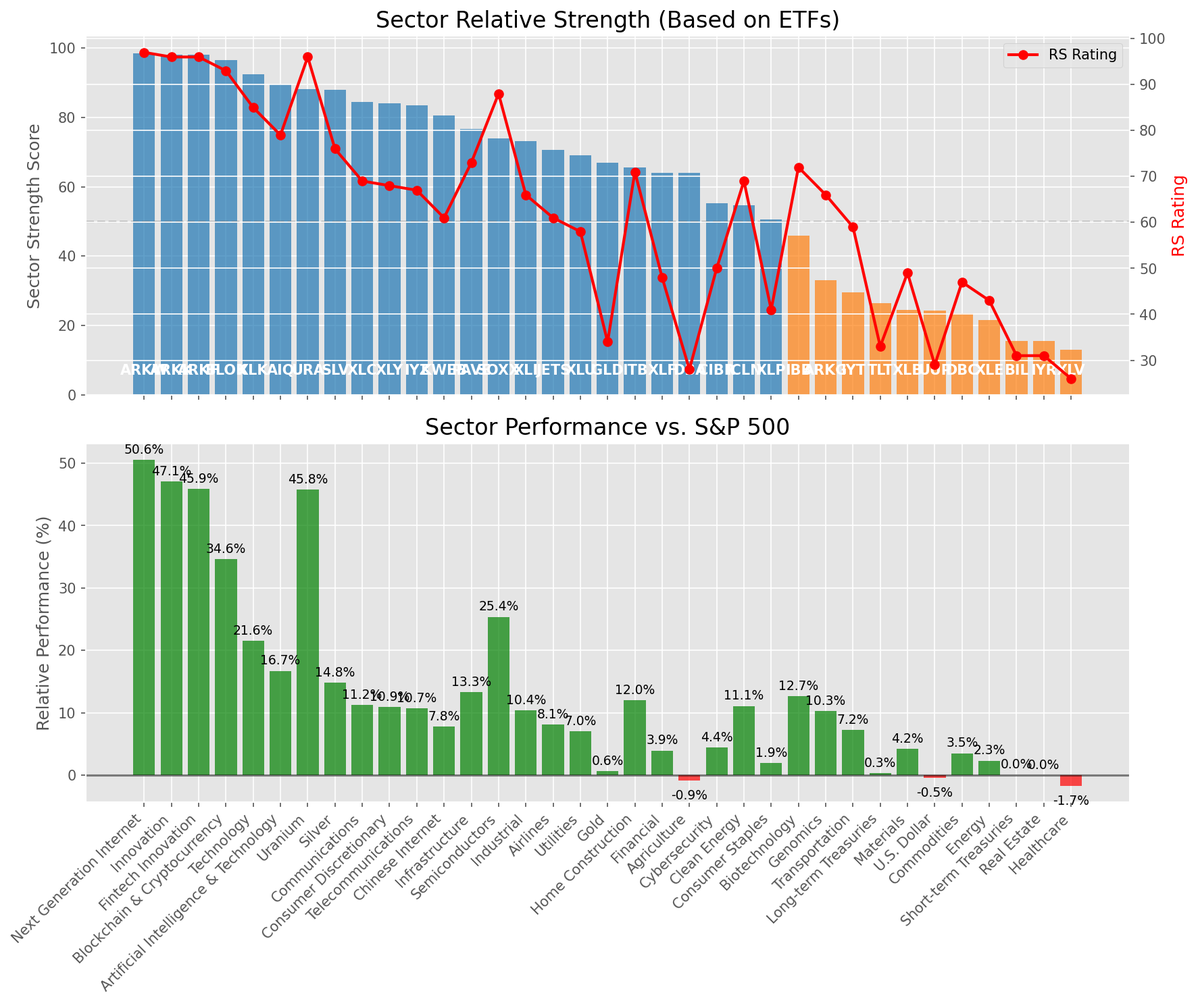
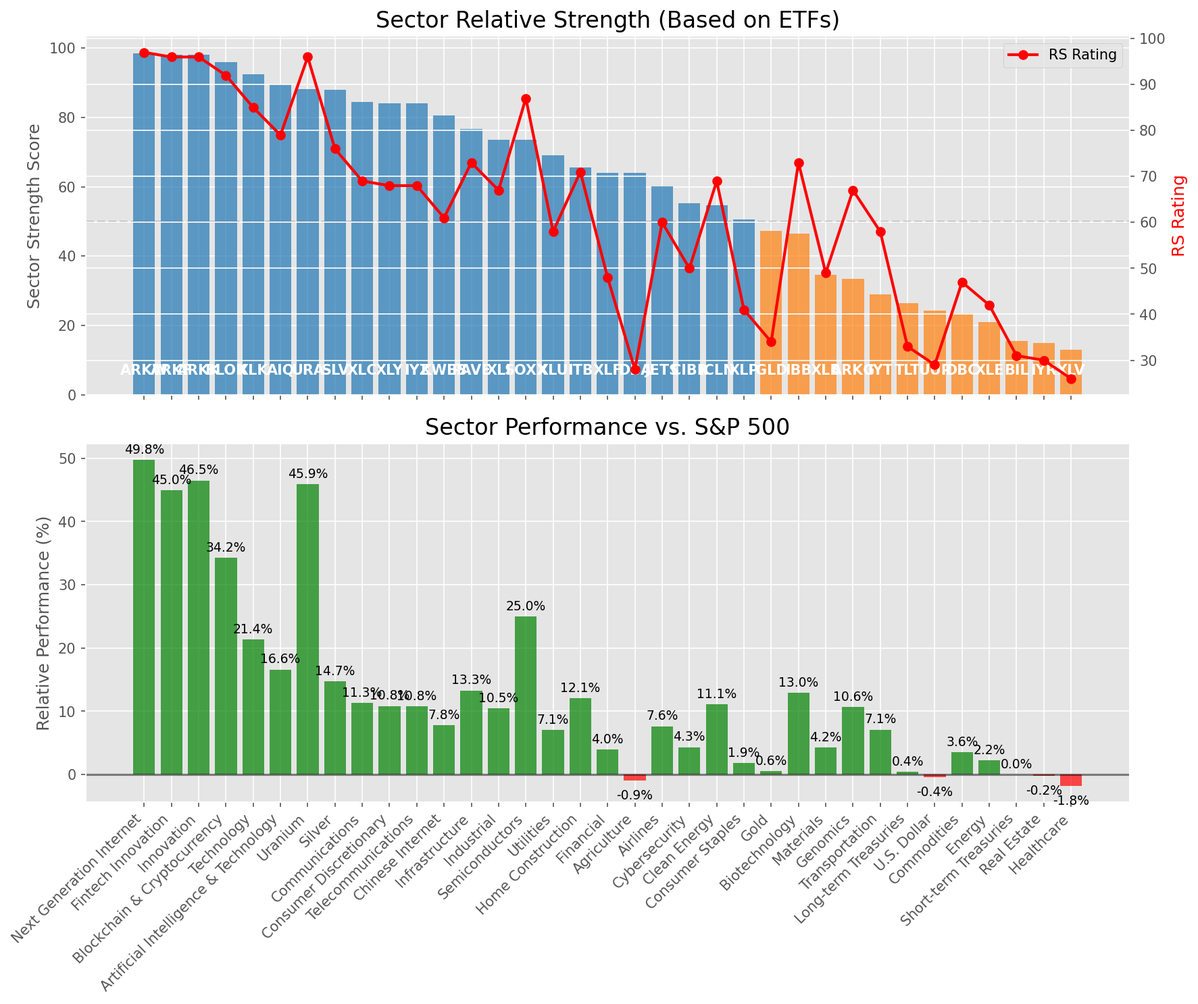
Add market report for 2025-08-11

diff --git a/oneil_relative_strength_report_2025-08-11.md b/oneil_relative_strength_report_2025-08-11.md
@@ -13,7 +13,7 @@
 | **Historical Mean** | 9.68 |
 | **Standard Deviation** | 0.52 |
 | **Z-Score (StdDev from Mean)** | 1.24 |
-| **Total Market Cap** | $312.54 trillion |
+| **Total Market Cap** | $312.31 trillion |
 | **GDP** | $30.33 trillion |
 
 ## **Market Insights**
@@ -49,41 +49,41 @@ Based on William O'Neil's Relative Strength Methodology
 
 | ETF | Strength | RS Rating | Performance | Above Key MAs | Trend | Sector |
 |-----|----------|-----------|-------------|--------------|-------|--------|
-| [ARKW](https://www.tradingview.com/chart/?symbol=ARKW) | 98.5 | 97.0 | 50.57% | 10d ✓, 50d ✓, 200d ✓ | ↗ | Next Generation Internet |
-| [ARKK](https://www.tradingview.com/chart/?symbol=ARKK) | 98.0 | 96.0 | 47.09% | 10d ✓, 50d ✓, 200d ✓ | ↗ | Innovation |
-| [ARKF](https://www.tradingview.com/chart/?symbol=ARKF) | 98.0 | 96.0 | 45.90% | 10d ✓, 50d ✓, 200d ✓ | ↗ | Fintech Innovation |
-| [BLOK](https://www.tradingview.com/chart/?symbol=BLOK) | 96.5 | 93.0 | 34.62% | 10d ✓, 50d ✓, 200d ✓ | ↗ | Blockchain & Cryptocurrency |
-| [XLK](https://www.tradingview.com/chart/?symbol=XLK) | 92.5 | 85.0 | 21.55% | 10d ✓, 50d ✓, 200d ✓ | ↗ | Technology |
-| [AIQ](https://www.tradingview.com/chart/?symbol=AIQ) | 89.5 | 79.0 | 16.70% | 10d ✓, 50d ✓, 200d ✓ | ↗ | Artificial Intelligence & Technology |
-| [URA](https://www.tradingview.com/chart/?symbol=URA) | 88.1 | 96.0 | 45.77% | 10d ✗, 50d ✓, 200d ✓ | ↗ | Uranium |
-| [SLV](https://www.tradingview.com/chart/?symbol=SLV) | 88.0 | 76.0 | 14.84% | 10d ✓, 50d ✓, 200d ✓ | ↗ | Silver |
-| [XLC](https://www.tradingview.com/chart/?symbol=XLC) | 84.5 | 69.0 | 11.24% | 10d ✓, 50d ✓, 200d ✓ | ↗ | Communications |
-| [XLY](https://www.tradingview.com/chart/?symbol=XLY) | 84.0 | 68.0 | 10.95% | 10d ✓, 50d ✓, 200d ✓ | ↗ | Consumer Discretionary |
-| [IYZ](https://www.tradingview.com/chart/?symbol=IYZ) | 83.5 | 67.0 | 10.71% | 10d ✓, 50d ✓, 200d ✓ | ↗ | Telecommunications |
-| [KWEB](https://www.tradingview.com/chart/?symbol=KWEB) | 80.5 | 61.0 | 7.80% | 10d ✓, 50d ✓, 200d ✓ | ↗ | Chinese Internet |
-| [PAVE](https://www.tradingview.com/chart/?symbol=PAVE) | 76.6 | 73.0 | 13.31% | 10d ✗, 50d ✓, 200d ✓ | ↗ | Infrastructure |
-| [SOXX](https://www.tradingview.com/chart/?symbol=SOXX) | 74.0 | 88.0 | 25.36% | 10d ✓, 50d ✓, 200d ✓ | ↘ | Semiconductors |
-| [XLI](https://www.tradingview.com/chart/?symbol=XLI) | 73.1 | 66.0 | 10.36% | 10d ✗, 50d ✓, 200d ✓ | ↗ | Industrial |
-| [JETS](https://www.tradingview.com/chart/?symbol=JETS) | 70.6 | 61.0 | 8.08% | 10d ✗, 50d ✓, 200d ✓ | ↗ | Airlines |
-| [XLU](https://www.tradingview.com/chart/?symbol=XLU) | 69.1 | 58.0 | 6.97% | 10d ✗, 50d ✓, 200d ✓ | ↗ | Utilities |
-| [GLD](https://www.tradingview.com/chart/?symbol=GLD) | 67.0 | 34.0 | 0.64% | 10d ✓, 50d ✓, 200d ✓ | ↗ | Gold |
-| [ITB](https://www.tradingview.com/chart/?symbol=ITB) | 65.5 | 71.0 | 12.04% | 10d ✓, 50d ✓, 200d ✓ | ↘ | Home Construction |
-| [XLF](https://www.tradingview.com/chart/?symbol=XLF) | 64.1 | 48.0 | 3.93% | 10d ✗, 50d ✓, 200d ✓ | ↗ | Financial |
+| [ARKW](https://www.tradingview.com/chart/?symbol=ARKW) | 98.5 | 97.0 | 49.78% | 10d ✓, 50d ✓, 200d ✓ | ↗ | Next Generation Internet |
+| [ARKF](https://www.tradingview.com/chart/?symbol=ARKF) | 98.0 | 96.0 | 44.96% | 10d ✓, 50d ✓, 200d ✓ | ↗ | Fintech Innovation |
+| [ARKK](https://www.tradingview.com/chart/?symbol=ARKK) | 98.0 | 96.0 | 46.50% | 10d ✓, 50d ✓, 200d ✓ | ↗ | Innovation |
+| [BLOK](https://www.tradingview.com/chart/?symbol=BLOK) | 96.0 | 92.0 | 34.25% | 10d ✓, 50d ✓, 200d ✓ | ↗ | Blockchain & Cryptocurrency |
+| [XLK](https://www.tradingview.com/chart/?symbol=XLK) | 92.5 | 85.0 | 21.38% | 10d ✓, 50d ✓, 200d ✓ | ↗ | Technology |
+| [AIQ](https://www.tradingview.com/chart/?symbol=AIQ) | 89.5 | 79.0 | 16.60% | 10d ✓, 50d ✓, 200d ✓ | ↗ | Artificial Intelligence & Technology |
+| [URA](https://www.tradingview.com/chart/?symbol=URA) | 88.1 | 96.0 | 45.91% | 10d ✗, 50d ✓, 200d ✓ | ↗ | Uranium |
+| [SLV](https://www.tradingview.com/chart/?symbol=SLV) | 88.0 | 76.0 | 14.70% | 10d ✓, 50d ✓, 200d ✓ | ↗ | Silver |
+| [XLC](https://www.tradingview.com/chart/?symbol=XLC) | 84.5 | 69.0 | 11.32% | 10d ✓, 50d ✓, 200d ✓ | ↗ | Communications |
+| [XLY](https://www.tradingview.com/chart/?symbol=XLY) | 84.0 | 68.0 | 10.84% | 10d ✓, 50d ✓, 200d ✓ | ↗ | Consumer Discretionary |
+| [IYZ](https://www.tradingview.com/chart/?symbol=IYZ) | 84.0 | 68.0 | 10.75% | 10d ✓, 50d ✓, 200d ✓ | ↗ | Telecommunications |
+| [KWEB](https://www.tradingview.com/chart/?symbol=KWEB) | 80.5 | 61.0 | 7.77% | 10d ✓, 50d ✓, 200d ✓ | ↗ | Chinese Internet |
+| [PAVE](https://www.tradingview.com/chart/?symbol=PAVE) | 76.6 | 73.0 | 13.30% | 10d ✗, 50d ✓, 200d ✓ | ↗ | Infrastructure |
+| [XLI](https://www.tradingview.com/chart/?symbol=XLI) | 73.6 | 67.0 | 10.45% | 10d ✗, 50d ✓, 200d ✓ | ↗ | Industrial |
+| [SOXX](https://www.tradingview.com/chart/?symbol=SOXX) | 73.5 | 87.0 | 24.99% | 10d ✓, 50d ✓, 200d ✓ | ↘ | Semiconductors |
+| [XLU](https://www.tradingview.com/chart/?symbol=XLU) | 69.1 | 58.0 | 7.07% | 10d ✗, 50d ✓, 200d ✓ | ↗ | Utilities |
+| [ITB](https://www.tradingview.com/chart/?symbol=ITB) | 65.5 | 71.0 | 12.09% | 10d ✓, 50d ✓, 200d ✓ | ↘ | Home Construction |
+| [XLF](https://www.tradingview.com/chart/?symbol=XLF) | 64.1 | 48.0 | 3.95% | 10d ✗, 50d ✓, 200d ✓ | ↗ | Financial |
 | [DBA](https://www.tradingview.com/chart/?symbol=DBA) | 64.0 | 28.0 | -0.89% | 10d ✓, 50d ✓, 200d ✓ | ↗ | Agriculture |
-| [CIBR](https://www.tradingview.com/chart/?symbol=CIBR) | 55.2 | 50.0 | 4.43% | 10d ✗, 50d ✗, 200d ✓ | ↗ | Cybersecurity |
+| [JETS](https://www.tradingview.com/chart/?symbol=JETS) | 60.2 | 60.0 | 7.65% | 10d ✗, 50d ✗, 200d ✓ | ↗ | Airlines |
+| [CIBR](https://www.tradingview.com/chart/?symbol=CIBR) | 55.2 | 50.0 | 4.33% | 10d ✗, 50d ✗, 200d ✓ | ↗ | Cybersecurity |
 | [ICLN](https://www.tradingview.com/chart/?symbol=ICLN) | 54.6 | 69.0 | 11.08% | 10d ✗, 50d ✓, 200d ✓ | ↘ | Clean Energy |
-| [XLP](https://www.tradingview.com/chart/?symbol=XLP) | 50.5 | 41.0 | 1.91% | 10d ✓, 50d ✓, 200d ✓ | ↘ | Consumer Staples |
-| [IBB](https://www.tradingview.com/chart/?symbol=IBB) | 45.9 | 72.0 | 12.68% | 10d ✗, 50d ✓, 200d ✗ | ↘ | Biotechnology |
-| [ARKG](https://www.tradingview.com/chart/?symbol=ARKG) | 33.0 | 66.0 | 10.27% | 10d ✗, 50d ✗, 200d ✗ | ↘ | Genomics |
-| [IYT](https://www.tradingview.com/chart/?symbol=IYT) | 29.5 | 59.0 | 7.23% | 10d ✗, 50d ✗, 200d ✗ | ↘ | Transportation |
-| [TLT](https://www.tradingview.com/chart/?symbol=TLT) | 26.4 | 33.0 | 0.32% | 10d ✗, 50d ✓, 200d ✗ | ↘ | Long-term Treasuries |
-| [XLB](https://www.tradingview.com/chart/?symbol=XLB) | 24.5 | 49.0 | 4.21% | 10d ✗, 50d ✗, 200d ✗ | ↘ | Materials |
-| [UUP](https://www.tradingview.com/chart/?symbol=UUP) | 24.4 | 29.0 | -0.49% | 10d ✗, 50d ✓, 200d ✗ | ↘ | U.S. Dollar |
-| [DBC](https://www.tradingview.com/chart/?symbol=DBC) | 23.5 | 47.0 | 3.50% | 10d ✗, 50d ✗, 200d ✗ | ↘ | Commodities |
-| [XLE](https://www.tradingview.com/chart/?symbol=XLE) | 21.5 | 43.0 | 2.30% | 10d ✗, 50d ✗, 200d ✗ | ↘ | Energy |
-| [BIL](https://www.tradingview.com/chart/?symbol=BIL) | 15.5 | 31.0 | 0.03% | 10d ✗, 50d ✗, 200d ✗ | ↘ | Short-term Treasuries |
-| [IYR](https://www.tradingview.com/chart/?symbol=IYR) | 15.5 | 31.0 | 0.01% | 10d ✗, 50d ✗, 200d ✗ | ↘ | Real Estate |
-| [XLV](https://www.tradingview.com/chart/?symbol=XLV) | 13.0 | 26.0 | -1.75% | 10d ✗, 50d ✗, 200d ✗ | ↘ | Healthcare |
+| [XLP](https://www.tradingview.com/chart/?symbol=XLP) | 50.5 | 41.0 | 1.85% | 10d ✓, 50d ✓, 200d ✓ | ↘ | Consumer Staples |
+| [GLD](https://www.tradingview.com/chart/?symbol=GLD) | 47.2 | 34.0 | 0.56% | 10d ✗, 50d ✗, 200d ✓ | ↗ | Gold |
+| [IBB](https://www.tradingview.com/chart/?symbol=IBB) | 46.4 | 73.0 | 12.96% | 10d ✗, 50d ✓, 200d ✗ | ↘ | Biotechnology |
+| [XLB](https://www.tradingview.com/chart/?symbol=XLB) | 34.7 | 49.0 | 4.25% | 10d ✗, 50d ✗, 200d ✓ | ↘ | Materials |
+| [ARKG](https://www.tradingview.com/chart/?symbol=ARKG) | 33.5 | 67.0 | 10.65% | 10d ✗, 50d ✗, 200d ✗ | ↘ | Genomics |
+| [IYT](https://www.tradingview.com/chart/?symbol=IYT) | 29.0 | 58.0 | 7.09% | 10d ✗, 50d ✗, 200d ✗ | ↘ | Transportation |
+| [TLT](https://www.tradingview.com/chart/?symbol=TLT) | 26.4 | 33.0 | 0.39% | 10d ✗, 50d ✓, 200d ✗ | ↘ | Long-term Treasuries |
+| [UUP](https://www.tradingview.com/chart/?symbol=UUP) | 24.4 | 29.0 | -0.43% | 10d ✗, 50d ✓, 200d ✗ | ↘ | U.S. Dollar |
+| [DBC](https://www.tradingview.com/chart/?symbol=DBC) | 23.5 | 47.0 | 3.55% | 10d ✗, 50d ✗, 200d ✗ | ↘ | Commodities |
+| [XLE](https://www.tradingview.com/chart/?symbol=XLE) | 21.0 | 42.0 | 2.21% | 10d ✗, 50d ✗, 200d ✗ | ↘ | Energy |
+| [BIL](https://www.tradingview.com/chart/?symbol=BIL) | 15.5 | 31.0 | 0.02% | 10d ✗, 50d ✗, 200d ✗ | ↘ | Short-term Treasuries |
+| [IYR](https://www.tradingview.com/chart/?symbol=IYR) | 15.0 | 30.0 | -0.22% | 10d ✗, 50d ✗, 200d ✗ | ↘ | Real Estate |
+| [XLV](https://www.tradingview.com/chart/?symbol=XLV) | 13.0 | 26.0 | -1.80% | 10d ✗, 50d ✗, 200d ✗ | ↘ | Healthcare |
 
 ### **Sector ETF Performance Interpretation**
 
@@ -98,159 +98,148 @@ This table shows the relative strength metrics for different market sectors base
 
 ### **Current Sector Leadership**
 
-The current market leadership is coming from the following sectors: **Next Generation Internet, Innovation, Fintech Innovation**.
+The current market leadership is coming from the following sectors: **Next Generation Internet, Fintech Innovation, Innovation**.
 
-The **Next Generation Internet** sector (represented by **ARKW**) is showing particularly strong relative strength with an RS rating of 97.0 and performance of 50.57% vs. the S&P 500. This sector is trading above its 10-day, 50-day, 200-day moving average(s). Investors should consider focusing on high RS stocks within these leading sectors for potential outperformance.
+The **Next Generation Internet** sector (represented by **ARKW**) is showing particularly strong relative strength with an RS rating of 97.0 and performance of 49.78% vs. the S&P 500. This sector is trading above its 10-day, 50-day, 200-day moving average(s). Investors should consider focusing on high RS stocks within these leading sectors for potential outperformance.
 
 ---
 
 ## **Buy Recommendations**
 
-The following 58 stocks show exceptional relative strength:
+The following 59 stocks show exceptional relative strength:
 
 | RS Rating | Buy Score | Current Price | Chart | Name | Ticker |
 |-----------|-----------|---------------|-------|------|--------|
-| 100 | 100 | $74.27 | [Chart](https://www.tradingview.com/chart/?symbol=MP) | MP Materials Corp. | MP |
-| 100 | 100 | $204.12 | [Chart](https://www.tradingview.com/chart/?symbol=CLS) | Celestica, Inc. | CLS |
-| 100 | 100 | $118.61 | [Chart](https://www.tradingview.com/chart/?symbol=CRDO) | Credo Technology Group Holding Ltd Ordinary Shares | CRDO |
-| 100 | 100 | $115.11 | [Chart](https://www.tradingview.com/chart/?symbol=HOOD) | Robinhood Markets, Inc. Class A Common Stock | HOOD |
-| 100 | 100 | $64.76 | [Chart](https://www.tradingview.com/chart/?symbol=KTOS) | Kratos Defense & Security Solutions, Inc. | KTOS |
-| 99 | 100 | $130.96 | [Chart](https://www.tradingview.com/chart/?symbol=RBLX) | Roblox Corporation | RBLX |
-| 98 | 100 | $92.88 | [Chart](https://www.tradingview.com/chart/?symbol=RYTM) | Rhythm Pharmaceuticals, Inc. Common Stock | RYTM |
-| 98 | 100 | $105.30 | [Chart](https://www.tradingview.com/chart/?symbol=VRNA) | Verona Pharma plc | VRNA |
-| 97 | 100 | $160.61 | [Chart](https://www.tradingview.com/chart/?symbol=ARKW) | ARK Next Generation Internet ETF | ARKW |
-| 97 | 100 | $183.06 | [Chart](https://www.tradingview.com/chart/?symbol=PLTR) | Palantir Technologies Inc. Class A Common Stock | PLTR |
-| 97 | 100 | $159.94 | [Chart](https://www.tradingview.com/chart/?symbol=FUTU) | Futu Holdings Limited American Depositary Shares | FUTU |
-| 97 | 100 | $179.14 | [Chart](https://www.tradingview.com/chart/?symbol=COOP) | Mr. Cooper Group Inc. Common Stock | COOP |
-| 97 | 100 | $119.93 | [Chart](https://www.tradingview.com/chart/?symbol=SANM) | Sanmina  Corp | SANM |
-| 96 | 100 | $54.61 | [Chart](https://www.tradingview.com/chart/?symbol=ARKF) | ARK Fintech Innovation ETF | ARKF |
-| 95 | 100 | $58.30 | [Chart](https://www.tradingview.com/chart/?symbol=BTI) | British American Tobacco p.l.c. American Depositary Shares, American Depositary Shares, each representing one Ordinary Share | BTI |
-| 95 | 100 | $464.55 | [Chart](https://www.tradingview.com/chart/?symbol=APP) | Applovin Corporation Class A Common Stock | APP |
-| 95 | 100 | $66.08 | [Chart](https://www.tradingview.com/chart/?symbol=IBKR) | Interactive Brokers Group, Inc. Class A Common Stock | IBKR |
-| 94 | 100 | $256.00 | [Chart](https://www.tradingview.com/chart/?symbol=DASH) | DoorDash, Inc. Class A Common Stock | DASH |
-| 94 | 100 | $50.11 | [Chart](https://www.tradingview.com/chart/?symbol=REVG) | REV Group, Inc. | REVG |
-| 94 | 100 | $47.27 | [Chart](https://www.tradingview.com/chart/?symbol=BBIO) | BridgeBio Pharma, Inc. Common Stock | BBIO |
-| 93 | 100 | $110.09 | [Chart](https://www.tradingview.com/chart/?symbol=APH) | Amphenol Corporation | APH |
-| 93 | 100 | $23.03 | [Chart](https://www.tradingview.com/chart/?symbol=MAG) | MAG Silver Corp. | MAG |
-| 93 | 100 | $94.89 | [Chart](https://www.tradingview.com/chart/?symbol=EBAY) | eBay Inc | EBAY |
-| 93 | 100 | $20.64 | [Chart](https://www.tradingview.com/chart/?symbol=LQDA) | Liquidia Corporation Common Stock | LQDA |
-| 91 | 100 | $96.84 | [Chart](https://www.tradingview.com/chart/?symbol=TPB) | Turning Point Brands, Inc. | TPB |
-| 91 | 100 | $36.18 | [Chart](https://www.tradingview.com/chart/?symbol=DB) | Deutsche Bank Aktiengesellschaft | DB |
-| 91 | 100 | $56.78 | [Chart](https://www.tradingview.com/chart/?symbol=CALX) | CALIX, INC. | CALX |
-| 90 | 100 | $91.29 | [Chart](https://www.tradingview.com/chart/?symbol=GDXU) | MicroSectors Gold Miners 3x Leveraged ETN | GDXU |
-| 90 | 100 | $54.22 | [Chart](https://www.tradingview.com/chart/?symbol=GH) | Guardant Health, Inc. Common Stock | GH |
-| 90 | 100 | $195.01 | [Chart](https://www.tradingview.com/chart/?symbol=ASND) | Ascendis Pharma A/S American Depositary Shares | ASND |
-| 89 | 100 | $274.58 | [Chart](https://www.tradingview.com/chart/?symbol=GE) | GE Aerospace | GE |
-| 89 | 100 | $28.13 | [Chart](https://www.tradingview.com/chart/?symbol=KAR) | OPENLANE, Inc | KAR |
-| 88 | 100 | $30.63 | [Chart](https://www.tradingview.com/chart/?symbol=OR) | OR Royalties Inc. | OR |
-| 88 | 100 | $267.46 | [Chart](https://www.tradingview.com/chart/?symbol=IDCC) | InterDigital, Inc. | IDCC |
-| 89 | 99 | $54.03 | [Chart](https://www.tradingview.com/chart/?symbol=SIL) | Global X Silver Miners ETF (NEW) | SIL |
-| 88 | 99 | $56.64 | [Chart](https://www.tradingview.com/chart/?symbol=AU) | AngloGold Ashanti plc | AU |
-| 86 | 99 | $119.70 | [Chart](https://www.tradingview.com/chart/?symbol=GILD) | Gilead Sciences Inc | GILD |
-| 84 | 98 | $20.02 | [Chart](https://www.tradingview.com/chart/?symbol=BCS) | Barclays PLC | BCS |
-| 87 | 97 | $188.80 | [Chart](https://www.tradingview.com/chart/?symbol=AWI) | Armstrong World Industries, Inc. | AWI |
-| 87 | 97 | $262.24 | [Chart](https://www.tradingview.com/chart/?symbol=WTS) | Watts Water Technologies, Inc. Class A | WTS |
-| 87 | 97 | $65.73 | [Chart](https://www.tradingview.com/chart/?symbol=MAIN) | Main Street Capital Corporation | MAIN |
-| 86 | 97 | $35.09 | [Chart](https://www.tradingview.com/chart/?symbol=ATAT) | Atour Lifestyle Holdings Limited American Depositary Shares | ATAT |
-| 86 | 96 | $97.15 | [Chart](https://www.tradingview.com/chart/?symbol=NDAQ) | Nasdaq, Inc. Common Stock | NDAQ |
-| 85 | 96 | $249.49 | [Chart](https://www.tradingview.com/chart/?symbol=BAP) | Credicorp LTD | BAP |
-| 85 | 96 | $26.81 | [Chart](https://www.tradingview.com/chart/?symbol=TFPM) | Triple Flag Precious Metals Corp. | TFPM |
-| 83 | 96 | $57.92 | [Chart](https://www.tradingview.com/chart/?symbol=ERJ) | Embraer S.A. | ERJ |
-| 85 | 95 | $47.72 | [Chart](https://www.tradingview.com/chart/?symbol=FAST) | Fastenal Co | FAST |
-| 85 | 95 | $18.26 | [Chart](https://www.tradingview.com/chart/?symbol=BVN) | Compania de Minas Buenaventura S.A. | BVN |
-| 85 | 95 | $31.41 | [Chart](https://www.tradingview.com/chart/?symbol=IIIV) | i3 Verticals, Inc. Class A Common Stock | IIIV |
-| 84 | 95 | $115.80 | [Chart](https://www.tradingview.com/chart/?symbol=SXT) | Sensient Technology Corporation | SXT |
-| 83 | 95 | $103.17 | [Chart](https://www.tradingview.com/chart/?symbol=BK) | Bank of New York Mellon Corporation | BK |
-| 83 | 95 | $821.37 | [Chart](https://www.tradingview.com/chart/?symbol=AXON) | Axon Enterprise, Inc. Common Stock | AXON |
-| 84 | 94 | $51.51 | [Chart](https://www.tradingview.com/chart/?symbol=FHI) | Federated Hermes, Inc. | FHI |
-| 82 | 93 | $117.23 | [Chart](https://www.tradingview.com/chart/?symbol=SPMO) | Invesco S&P 500 Momentum ETF | SPMO |
-| 82 | 93 | $35.00 | [Chart](https://www.tradingview.com/chart/?symbol=APG) | APi Group Corporation | APG |
-| 81 | 93 | $70.61 | [Chart](https://www.tradingview.com/chart/?symbol=CSCO) | Cisco Systems, Inc. Common Stock (DE) | CSCO |
-| 81 | 93 | $319.05 | [Chart](https://www.tradingview.com/chart/?symbol=FFIV) | F5, Inc. Common Stock | FFIV |
-| 80 | 91 | $24.10 | [Chart](https://www.tradingview.com/chart/?symbol=ING) | ING Groep N.V. American Depositary Shares | ING |
+| 100 | 100 | $72.69 | [Chart](https://www.tradingview.com/chart/?symbol=MP) | MP Materials Corp. | MP |
+| 100 | 100 | $113.62 | [Chart](https://www.tradingview.com/chart/?symbol=HOOD) | Robinhood Markets, Inc. Class A Common Stock | HOOD |
+| 100 | 100 | $65.41 | [Chart](https://www.tradingview.com/chart/?symbol=KTOS) | Kratos Defense & Security Solutions, Inc. | KTOS |
+| 100 | 100 | $204.60 | [Chart](https://www.tradingview.com/chart/?symbol=CLS) | Celestica, Inc. | CLS |
+| 100 | 100 | $118.57 | [Chart](https://www.tradingview.com/chart/?symbol=CRDO) | Credo Technology Group Holding Ltd Ordinary Shares | CRDO |
+| 99 | 100 | $130.74 | [Chart](https://www.tradingview.com/chart/?symbol=RBLX) | Roblox Corporation | RBLX |
+| 98 | 100 | $94.31 | [Chart](https://www.tradingview.com/chart/?symbol=RYTM) | Rhythm Pharmaceuticals, Inc. Common Stock | RYTM |
+| 97 | 100 | $159.77 | [Chart](https://www.tradingview.com/chart/?symbol=ARKW) | ARK Next Generation Internet ETF | ARKW |
+| 97 | 100 | $119.16 | [Chart](https://www.tradingview.com/chart/?symbol=SANM) | Sanmina  Corp | SANM |
+| 97 | 100 | $180.27 | [Chart](https://www.tradingview.com/chart/?symbol=COOP) | Mr. Cooper Group Inc. Common Stock | COOP |
+| 97 | 100 | $182.68 | [Chart](https://www.tradingview.com/chart/?symbol=PLTR) | Palantir Technologies Inc. Class A Common Stock | PLTR |
+| 97 | 100 | $159.50 | [Chart](https://www.tradingview.com/chart/?symbol=FUTU) | Futu Holdings Limited American Depositary Shares | FUTU |
+| 96 | 100 | $54.26 | [Chart](https://www.tradingview.com/chart/?symbol=ARKF) | ARK Fintech Innovation ETF | ARKF |
+| 95 | 100 | $66.18 | [Chart](https://www.tradingview.com/chart/?symbol=IBKR) | Interactive Brokers Group, Inc. Class A Common Stock | IBKR |
+| 95 | 100 | $48.24 | [Chart](https://www.tradingview.com/chart/?symbol=BBIO) | BridgeBio Pharma, Inc. Common Stock | BBIO |
+| 95 | 100 | $24.82 | [Chart](https://www.tradingview.com/chart/?symbol=ACAD) | Acadia Pharmaceuticals Inc. | ACAD |
+| 95 | 100 | $465.58 | [Chart](https://www.tradingview.com/chart/?symbol=APP) | Applovin Corporation Class A Common Stock | APP |
+| 94 | 100 | $256.09 | [Chart](https://www.tradingview.com/chart/?symbol=DASH) | DoorDash, Inc. Class A Common Stock | DASH |
+| 94 | 100 | $58.33 | [Chart](https://www.tradingview.com/chart/?symbol=BTI) | British American Tobacco p.l.c. American Depositary Shares, American Depositary Shares, each representing one Ordinary Share | BTI |
+| 94 | 100 | $21.20 | [Chart](https://www.tradingview.com/chart/?symbol=LQDA) | Liquidia Corporation Common Stock | LQDA |
+| 93 | 100 | $95.30 | [Chart](https://www.tradingview.com/chart/?symbol=EBAY) | eBay Inc | EBAY |
+| 93 | 100 | $109.81 | [Chart](https://www.tradingview.com/chart/?symbol=APH) | Amphenol Corporation | APH |
+| 93 | 100 | $49.97 | [Chart](https://www.tradingview.com/chart/?symbol=REVG) | REV Group, Inc. | REVG |
+| 93 | 100 | $22.92 | [Chart](https://www.tradingview.com/chart/?symbol=MAG) | MAG Silver Corp. | MAG |
+| 92 | 100 | $36.21 | [Chart](https://www.tradingview.com/chart/?symbol=DB) | Deutsche Bank Aktiengesellschaft | DB |
+| 91 | 100 | $54.80 | [Chart](https://www.tradingview.com/chart/?symbol=GH) | Guardant Health, Inc. Common Stock | GH |
+| 91 | 100 | $56.68 | [Chart](https://www.tradingview.com/chart/?symbol=CALX) | CALIX, INC. | CALX |
+| 91 | 100 | $97.77 | [Chart](https://www.tradingview.com/chart/?symbol=TPB) | Turning Point Brands, Inc. | TPB |
+| 90 | 100 | $275.20 | [Chart](https://www.tradingview.com/chart/?symbol=GE) | GE Aerospace | GE |
+| 90 | 100 | $28.30 | [Chart](https://www.tradingview.com/chart/?symbol=KAR) | OPENLANE, Inc | KAR |
+| 90 | 100 | $195.97 | [Chart](https://www.tradingview.com/chart/?symbol=ASND) | Ascendis Pharma A/S American Depositary Shares | ASND |
+| 89 | 100 | $56.80 | [Chart](https://www.tradingview.com/chart/?symbol=AU) | AngloGold Ashanti plc | AU |
+| 88 | 100 | $30.64 | [Chart](https://www.tradingview.com/chart/?symbol=OR) | OR Royalties Inc. | OR |
+| 88 | 100 | $266.31 | [Chart](https://www.tradingview.com/chart/?symbol=IDCC) | InterDigital, Inc. | IDCC |
+| 87 | 100 | $120.47 | [Chart](https://www.tradingview.com/chart/?symbol=GILD) | Gilead Sciences Inc | GILD |
+| 89 | 99 | $90.97 | [Chart](https://www.tradingview.com/chart/?symbol=GDXU) | MicroSectors Gold Miners 3x Leveraged ETN | GDXU |
+| 88 | 98 | $53.83 | [Chart](https://www.tradingview.com/chart/?symbol=SIL) | Global X Silver Miners ETF (NEW) | SIL |
+| 88 | 98 | $266.98 | [Chart](https://www.tradingview.com/chart/?symbol=WTS) | Watts Water Technologies, Inc. Class A | WTS |
+| 84 | 98 | $20.05 | [Chart](https://www.tradingview.com/chart/?symbol=BCS) | Barclays PLC | BCS |
+| 87 | 97 | $189.59 | [Chart](https://www.tradingview.com/chart/?symbol=AWI) | Armstrong World Industries, Inc. | AWI |
+| 87 | 97 | $65.98 | [Chart](https://www.tradingview.com/chart/?symbol=MAIN) | Main Street Capital Corporation | MAIN |
+| 86 | 97 | $34.96 | [Chart](https://www.tradingview.com/chart/?symbol=ATAT) | Atour Lifestyle Holdings Limited American Depositary Shares | ATAT |
+| 86 | 96 | $31.46 | [Chart](https://www.tradingview.com/chart/?symbol=IIIV) | i3 Verticals, Inc. Class A Common Stock | IIIV |
+| 85 | 96 | $26.89 | [Chart](https://www.tradingview.com/chart/?symbol=TFPM) | Triple Flag Precious Metals Corp. | TFPM |
+| 85 | 96 | $249.20 | [Chart](https://www.tradingview.com/chart/?symbol=BAP) | Credicorp LTD | BAP |
+| 83 | 96 | $57.77 | [Chart](https://www.tradingview.com/chart/?symbol=ERJ) | Embraer S.A. | ERJ |
+| 85 | 95 | $96.94 | [Chart](https://www.tradingview.com/chart/?symbol=NDAQ) | Nasdaq, Inc. Common Stock | NDAQ |
+| 85 | 95 | $47.84 | [Chart](https://www.tradingview.com/chart/?symbol=FAST) | Fastenal Co | FAST |
+| 84 | 95 | $116.00 | [Chart](https://www.tradingview.com/chart/?symbol=SXT) | Sensient Technology Corporation | SXT |
+| 83 | 95 | $818.69 | [Chart](https://www.tradingview.com/chart/?symbol=AXON) | Axon Enterprise, Inc. Common Stock | AXON |
+| 83 | 95 | $103.27 | [Chart](https://www.tradingview.com/chart/?symbol=BK) | Bank of New York Mellon Corporation | BK |
+| 84 | 94 | $51.57 | [Chart](https://www.tradingview.com/chart/?symbol=FHI) | Federated Hermes, Inc. | FHI |
+| 84 | 94 | $18.16 | [Chart](https://www.tradingview.com/chart/?symbol=BVN) | Compania de Minas Buenaventura S.A. | BVN |
+| 82 | 93 | $34.96 | [Chart](https://www.tradingview.com/chart/?symbol=APG) | APi Group Corporation | APG |
+| 82 | 93 | $117.05 | [Chart](https://www.tradingview.com/chart/?symbol=SPMO) | Invesco S&P 500 Momentum ETF | SPMO |
+| 81 | 93 | $70.67 | [Chart](https://www.tradingview.com/chart/?symbol=CSCO) | Cisco Systems, Inc. Common Stock (DE) | CSCO |
+| 81 | 93 | $318.11 | [Chart](https://www.tradingview.com/chart/?symbol=FFIV) | F5, Inc. Common Stock | FFIV |
+| 80 | 91 | $24.13 | [Chart](https://www.tradingview.com/chart/?symbol=ING) | ING Groep N.V. American Depositary Shares | ING |
+| 80 | 91 | $26.00 | [Chart](https://www.tradingview.com/chart/?symbol=PUK) | PRUDENTIAL PLC ADS (REP 2 ORD SHARES) | PUK |
 
 ---
 
 
 ## **Sell Recommendations**
 
-The following 73 stocks show deteriorating relative strength:
+The following 61 stocks show deteriorating relative strength:
 
 | RS Rating | Sell Score | Current Price | Chart | Name | Ticker |
 |-----------|------------|---------------|-------|------|--------|
-| 1 | 100 | $11.55 | [Chart](https://www.tradingview.com/chart/?symbol=NVDS) | Investment Managers Series Trust II Tradr 1.5X Short NVDA Daily ETF | NVDS |
-| 1 | 100 | $23.60 | [Chart](https://www.tradingview.com/chart/?symbol=TECS) | Direxion Daily Technology Bear 3x Shares | TECS |
-| 2 | 100 | $13.40 | [Chart](https://www.tradingview.com/chart/?symbol=CLBT) | Cellebrite DI Ltd. Class A Ordinary Shares | CLBT |
-| 3 | 100 | $23.55 | [Chart](https://www.tradingview.com/chart/?symbol=ZSL) | ProShares UltraShort Silver | ZSL |
-| 4 | 100 | $40.35 | [Chart](https://www.tradingview.com/chart/?symbol=OXM) | Oxford Industries, Inc. | OXM |
+| 1 | 100 | $11.60 | [Chart](https://www.tradingview.com/chart/?symbol=NVDS) | Investment Managers Series Trust II Tradr 1.5X Short NVDA Daily ETF | NVDS |
+| 1 | 100 | $23.64 | [Chart](https://www.tradingview.com/chart/?symbol=TECS) | Direxion Daily Technology Bear 3x Shares | TECS |
+| 2 | 100 | $13.52 | [Chart](https://www.tradingview.com/chart/?symbol=CLBT) | Cellebrite DI Ltd. Class A Ordinary Shares | CLBT |
+| 3 | 100 | $23.60 | [Chart](https://www.tradingview.com/chart/?symbol=ZSL) | ProShares UltraShort Silver | ZSL |
 | 6 | 100 | $23.26 | [Chart](https://www.tradingview.com/chart/?symbol=CRTO) | Criteo S.A. | CRTO |
-| 7 | 100 | $42.16 | [Chart](https://www.tradingview.com/chart/?symbol=SDOW) | ProShares UltraPro Short Dow 30 | SDOW |
-| 7 | 100 | $15.90 | [Chart](https://www.tradingview.com/chart/?symbol=S) | SentinelOne, Inc. | S |
-| 7 | 100 | $11.93 | [Chart](https://www.tradingview.com/chart/?symbol=ARDT) | Ardent Health, Inc. | ARDT |
-| 7 | 100 | $213.28 | [Chart](https://www.tradingview.com/chart/?symbol=WDAY) | Workday, Inc. Class A Common Stock | WDAY |
-| 8 | 100 | $17.16 | [Chart](https://www.tradingview.com/chart/?symbol=AVBP) | ArriVent BioPharma, Inc. Common Stock | AVBP |
-| 10 | 100 | $39.30 | [Chart](https://www.tradingview.com/chart/?symbol=BILL) | BILL Holdings, Inc. | BILL |
-| 11 | 100 | $13.74 | [Chart](https://www.tradingview.com/chart/?symbol=VRE) | Veris Residential, Inc. | VRE |
-| 11 | 100 | $24.55 | [Chart](https://www.tradingview.com/chart/?symbol=DXD) | ProShares UltraShort Dow 30 | DXD |
-| 11 | 100 | $83.06 | [Chart](https://www.tradingview.com/chart/?symbol=CAVA) | CAVA Group, Inc. | CAVA |
-| 15 | 100 | $16.29 | [Chart](https://www.tradingview.com/chart/?symbol=CTO) | CTO Realty Growth, Inc. | CTO |
-| 16 | 99 | $31.22 | [Chart](https://www.tradingview.com/chart/?symbol=JD) | JD.com, Inc. | JD |
-| 12 | 98 | $38.87 | [Chart](https://www.tradingview.com/chart/?symbol=SH) | ProShares Short S&P500 | SH |
-| 10 | 97 | $19.76 | [Chart](https://www.tradingview.com/chart/?symbol=GAP) | The Gap, Inc. | GAP |
-| 11 | 97 | $29.96 | [Chart](https://www.tradingview.com/chart/?symbol=WGO) | Winnebago Industries, Inc. | WGO |
-| 11 | 96 | $34.34 | [Chart](https://www.tradingview.com/chart/?symbol=AMH) | AMERICAN HOMES 4 RENT | AMH |
-| 15 | 96 | $25.34 | [Chart](https://www.tradingview.com/chart/?symbol=FCPT) | Four Corners Property Trust, Inc. | FCPT |
-| 18 | 96 | $26.15 | [Chart](https://www.tradingview.com/chart/?symbol=TBBB) | BBB Foods Inc. | TBBB |
-| 6 | 95 | $10.46 | [Chart](https://www.tradingview.com/chart/?symbol=DVAX) | Dynavax Technologies Corporation | DVAX |
-| 10 | 95 | $36.47 | [Chart](https://www.tradingview.com/chart/?symbol=LZB) | La-Z-Boy Incorporated | LZB |
-| 11 | 95 | $12.86 | [Chart](https://www.tradingview.com/chart/?symbol=EWTX) | Edgewise Therapeutics, Inc. Common Stock | EWTX |
-| 9 | 94 | $139.19 | [Chart](https://www.tradingview.com/chart/?symbol=MAA) | Mid-America Apartment Communities, Inc. | MAA |
-| 13 | 94 | $27.89 | [Chart](https://www.tradingview.com/chart/?symbol=BBWI) | Bath & Body Works, Inc. | BBWI |
-| 18 | 94 | $21.97 | [Chart](https://www.tradingview.com/chart/?symbol=CURB) | Curbline Properties Corp. | CURB |
-| 19 | 94 | $16.36 | [Chart](https://www.tradingview.com/chart/?symbol=UMH) | UMH Properties, Inc. | UMH |
-| 9 | 93 | $16.72 | [Chart](https://www.tradingview.com/chart/?symbol=BTAL) | AGF U.S. Market Neutral Anti-Beta Fund | BTAL |
-| 8 | 92 | $21.88 | [Chart](https://www.tradingview.com/chart/?symbol=CLW) | Clearwater Paper Corporation | CLW |
-| 15 | 92 | $12.69 | [Chart](https://www.tradingview.com/chart/?symbol=CCRN) | Cross Country Healthcare Inc | CCRN |
-| 12 | 91 | $14.71 | [Chart](https://www.tradingview.com/chart/?symbol=PLSE) | Pulse Biosciences, Inc Common Stock (DE) | PLSE |
-| 17 | 91 | $36.26 | [Chart](https://www.tradingview.com/chart/?symbol=VNO) | Vornado Realty Trust | VNO |
-| 13 | 90 | $778.34 | [Chart](https://www.tradingview.com/chart/?symbol=EQIX) | Equinix, Inc. Common Stock REIT | EQIX |
-| 13 | 88 | $47.63 | [Chart](https://www.tradingview.com/chart/?symbol=BIRK) | Birkenstock Holding plc | BIRK |
-| 17 | 88 | $13.80 | [Chart](https://www.tradingview.com/chart/?symbol=DOLE) | Dole plc | DOLE |
-| 17 | 88 | $13.06 | [Chart](https://www.tradingview.com/chart/?symbol=GOOD) | Gladstone Commercial Corporation - REIT | GOOD |
-| 17 | 88 | $13.08 | [Chart](https://www.tradingview.com/chart/?symbol=BAND) | Bandwidth Inc. Class A Common Stock | BAND |
-| 22 | 88 | $47.84 | [Chart](https://www.tradingview.com/chart/?symbol=FR) | First Industrial Realty Trust, Inc. | FR |
-| 17 | 87 | $11.95 | [Chart](https://www.tradingview.com/chart/?symbol=NU) | Nu Holdings Ltd. | NU |
-| 17 | 87 | $11.89 | [Chart](https://www.tradingview.com/chart/?symbol=PMT) | PennyMac Mortgage Investment Trust | PMT |
-| 16 | 85 | $28.88 | [Chart](https://www.tradingview.com/chart/?symbol=CNX) | CNX Resources Corporation | CNX |
-| 22 | 85 | $25.32 | [Chart](https://www.tradingview.com/chart/?symbol=WY) | Weyerhaeuser Company | WY |
-| 22 | 85 | $12.10 | [Chart](https://www.tradingview.com/chart/?symbol=WSR) | Whitestone REIT | WSR |
-| 19 | 84 | $54.63 | [Chart](https://www.tradingview.com/chart/?symbol=HRB) | H&R Block, Inc. | HRB |
-| 19 | 84 | $40.95 | [Chart](https://www.tradingview.com/chart/?symbol=NBTB) | NBT Bancorp Inc | NBTB |
-| 26 | 84 | $23.59 | [Chart](https://www.tradingview.com/chart/?symbol=FFBC) | First Financial Bancorp | FFBC |
+| 7 | 100 | $42.12 | [Chart](https://www.tradingview.com/chart/?symbol=SDOW) | ProShares UltraPro Short Dow 30 | SDOW |
+| 7 | 100 | $15.81 | [Chart](https://www.tradingview.com/chart/?symbol=S) | SentinelOne, Inc. | S |
+| 7 | 100 | $12.04 | [Chart](https://www.tradingview.com/chart/?symbol=ARDT) | Ardent Health, Inc. | ARDT |
+| 10 | 100 | $82.30 | [Chart](https://www.tradingview.com/chart/?symbol=CAVA) | CAVA Group, Inc. | CAVA |
+| 15 | 100 | $16.27 | [Chart](https://www.tradingview.com/chart/?symbol=CTO) | CTO Realty Growth, Inc. | CTO |
+| 10 | 99 | $39.12 | [Chart](https://www.tradingview.com/chart/?symbol=BILL) | BILL Holdings, Inc. | BILL |
+| 11 | 99 | $24.53 | [Chart](https://www.tradingview.com/chart/?symbol=DXD) | ProShares UltraShort Dow 30 | DXD |
+| 16 | 99 | $31.18 | [Chart](https://www.tradingview.com/chart/?symbol=JD) | JD.com, Inc. | JD |
+| 7 | 98 | $213.69 | [Chart](https://www.tradingview.com/chart/?symbol=WDAY) | Workday, Inc. Class A Common Stock | WDAY |
+| 9 | 98 | $17.39 | [Chart](https://www.tradingview.com/chart/?symbol=AVBP) | ArriVent BioPharma, Inc. Common Stock | AVBP |
+| 11 | 98 | $13.74 | [Chart](https://www.tradingview.com/chart/?symbol=VRE) | Veris Residential, Inc. | VRE |
+| 12 | 98 | $38.88 | [Chart](https://www.tradingview.com/chart/?symbol=SH) | ProShares Short S&P500 | SH |
+| 10 | 96 | $19.70 | [Chart](https://www.tradingview.com/chart/?symbol=GAP) | The Gap, Inc. | GAP |
+| 14 | 96 | $25.29 | [Chart](https://www.tradingview.com/chart/?symbol=FCPT) | Four Corners Property Trust, Inc. | FCPT |
+| 11 | 95 | $34.22 | [Chart](https://www.tradingview.com/chart/?symbol=AMH) | AMERICAN HOMES 4 RENT | AMH |
+| 6 | 94 | $10.47 | [Chart](https://www.tradingview.com/chart/?symbol=DVAX) | Dynavax Technologies Corporation | DVAX |
+| 18 | 94 | $16.27 | [Chart](https://www.tradingview.com/chart/?symbol=UMH) | UMH Properties, Inc. | UMH |
+| 10 | 93 | $36.72 | [Chart](https://www.tradingview.com/chart/?symbol=LZB) | La-Z-Boy Incorporated | LZB |
+| 18 | 93 | $21.90 | [Chart](https://www.tradingview.com/chart/?symbol=CURB) | Curbline Properties Corp. | CURB |
+| 19 | 93 | $26.33 | [Chart](https://www.tradingview.com/chart/?symbol=TBBB) | BBB Foods Inc. | TBBB |
+| 12 | 92 | $12.99 | [Chart](https://www.tradingview.com/chart/?symbol=EWTX) | Edgewise Therapeutics, Inc. Common Stock | EWTX |
+| 13 | 92 | $27.96 | [Chart](https://www.tradingview.com/chart/?symbol=BBWI) | Bath & Body Works, Inc. | BBWI |
+| 12 | 91 | $14.88 | [Chart](https://www.tradingview.com/chart/?symbol=PLSE) | Pulse Biosciences, Inc Common Stock (DE) | PLSE |
+| 15 | 91 | $12.67 | [Chart](https://www.tradingview.com/chart/?symbol=CCRN) | Cross Country Healthcare Inc | CCRN |
+| 16 | 91 | $35.91 | [Chart](https://www.tradingview.com/chart/?symbol=VNO) | Vornado Realty Trust | VNO |
+| 19 | 89 | $11.99 | [Chart](https://www.tradingview.com/chart/?symbol=WSR) | Whitestone REIT | WSR |
+| 13 | 88 | $776.75 | [Chart](https://www.tradingview.com/chart/?symbol=EQIX) | Equinix, Inc. Common Stock REIT | EQIX |
+| 21 | 87 | $47.58 | [Chart](https://www.tradingview.com/chart/?symbol=FR) | First Industrial Realty Trust, Inc. | FR |
+| 17 | 86 | $11.92 | [Chart](https://www.tradingview.com/chart/?symbol=NU) | Nu Holdings Ltd. | NU |
+| 17 | 86 | $11.87 | [Chart](https://www.tradingview.com/chart/?symbol=PMT) | PennyMac Mortgage Investment Trust | PMT |
+| 15 | 85 | $28.78 | [Chart](https://www.tradingview.com/chart/?symbol=CNX) | CNX Resources Corporation | CNX |
+| 20 | 83 | $40.94 | [Chart](https://www.tradingview.com/chart/?symbol=NBTB) | NBT Bancorp Inc | NBTB |
 | 26 | 83 | $30.74 | [Chart](https://www.tradingview.com/chart/?symbol=MBIN) | Merchants Bancorp Common Stock | MBIN |
-| 29 | 82 | $68.58 | [Chart](https://www.tradingview.com/chart/?symbol=BBY) | Best Buy Company, Inc. | BBY |
-| 24 | 81 | $45.70 | [Chart](https://www.tradingview.com/chart/?symbol=GLPI) | Gaming and Leisure Properties, Inc. | GLPI |
-| 24 | 80 | $33.76 | [Chart](https://www.tradingview.com/chart/?symbol=FFIN) | First Financial Bankshares Inc | FFIN |
-| 24 | 80 | $60.94 | [Chart](https://www.tradingview.com/chart/?symbol=UL) | Unilever plc | UL |
-| 28 | 80 | $12.23 | [Chart](https://www.tradingview.com/chart/?symbol=RQI) | COHEN & STEERS QUALITY INCOME REALTY FUND, INC. COMMON SHARES | RQI |
-| 29 | 80 | $95.38 | [Chart](https://www.tradingview.com/chart/?symbol=RWR) | SPDR Dow Jones REIT ETF | RWR |
-| 31 | 79 | $44.28 | [Chart](https://www.tradingview.com/chart/?symbol=EPI) | WisdomTree India Earnings Fund ETF | EPI |
-| 25 | 78 | $18.75 | [Chart](https://www.tradingview.com/chart/?symbol=CVBF) | CVB Financial Corp | CVBF |
-| 38 | 78 | $47.92 | [Chart](https://www.tradingview.com/chart/?symbol=SPHD) | Invesco S&P 500 High Dividend Low Volatility ETF | SPHD |
-| 23 | 77 | $294.07 | [Chart](https://www.tradingview.com/chart/?symbol=LAD) | Lithia Motors, Inc. | LAD |
-| 29 | 77 | $88.68 | [Chart](https://www.tradingview.com/chart/?symbol=VNQ) | Vanguard Real Estate ETF | VNQ |
-| 29 | 77 | $26.91 | [Chart](https://www.tradingview.com/chart/?symbol=FREL) | Fidelity MSCI Real Estate Index ETF | FREL |
-| 26 | 75 | $85.43 | [Chart](https://www.tradingview.com/chart/?symbol=BIDU) | Baidu, Inc. | BIDU |
-| 29 | 75 | $15.66 | [Chart](https://www.tradingview.com/chart/?symbol=MARA) | MARA Holdings, Inc. Common Stock | MARA |
-| 28 | 73 | $37.56 | [Chart](https://www.tradingview.com/chart/?symbol=FRME) | First Merchants Corp | FRME |
+| 31 | 83 | $10.16 | [Chart](https://www.tradingview.com/chart/?symbol=LOCO) | El Pollo Loco Holdings, Inc. | LOCO |
+| 26 | 82 | $23.63 | [Chart](https://www.tradingview.com/chart/?symbol=FFBC) | First Financial Bancorp | FFBC |
+| 21 | 81 | $10.71 | [Chart](https://www.tradingview.com/chart/?symbol=NFBK) | Northfield Bancorp, Inc. | NFBK |
+| 29 | 81 | $68.59 | [Chart](https://www.tradingview.com/chart/?symbol=BBY) | Best Buy Company, Inc. | BBY |
+| 24 | 80 | $60.90 | [Chart](https://www.tradingview.com/chart/?symbol=UL) | Unilever plc | UL |
+| 27 | 80 | $12.19 | [Chart](https://www.tradingview.com/chart/?symbol=RQI) | COHEN & STEERS QUALITY INCOME REALTY FUND, INC. COMMON SHARES | RQI |
+| 28 | 80 | $95.17 | [Chart](https://www.tradingview.com/chart/?symbol=RWR) | SPDR Dow Jones REIT ETF | RWR |
+| 25 | 77 | $33.90 | [Chart](https://www.tradingview.com/chart/?symbol=FFIN) | First Financial Bankshares Inc | FFIN |
+| 29 | 77 | $88.47 | [Chart](https://www.tradingview.com/chart/?symbol=VNQ) | Vanguard Real Estate ETF | VNQ |
+| 32 | 77 | $44.32 | [Chart](https://www.tradingview.com/chart/?symbol=EPI) | WisdomTree India Earnings Fund ETF | EPI |
+| 38 | 77 | $47.94 | [Chart](https://www.tradingview.com/chart/?symbol=SPHD) | Invesco S&P 500 High Dividend Low Volatility ETF | SPHD |
+| 26 | 76 | $18.81 | [Chart](https://www.tradingview.com/chart/?symbol=CVBF) | CVB Financial Corp | CVBF |
+| 29 | 76 | $26.84 | [Chart](https://www.tradingview.com/chart/?symbol=FREL) | Fidelity MSCI Real Estate Index ETF | FREL |
+| 29 | 74 | $15.66 | [Chart](https://www.tradingview.com/chart/?symbol=MARA) | MARA Holdings, Inc. Common Stock | MARA |
+| 31 | 73 | $17.39 | [Chart](https://www.tradingview.com/chart/?symbol=NBBK) | NB Bancorp, Inc. Common Stock | NBBK |
 | 38 | 73 | $41.38 | [Chart](https://www.tradingview.com/chart/?symbol=SRLN) | SPDR Blackstone Senior Loan ETF | SRLN |
-| 31 | 72 | $86.14 | [Chart](https://www.tradingview.com/chart/?symbol=TRU) | TransUnion | TRU |
-| 39 | 72 | $45.02 | [Chart](https://www.tradingview.com/chart/?symbol=SON) | Sonoco Products Company | SON |
-| 36 | 69 | $24.15 | [Chart](https://www.tradingview.com/chart/?symbol=FLBL) | Franklin Senior Loan ETF | FLBL |
-| 36 | 69 | $13.13 | [Chart](https://www.tradingview.com/chart/?symbol=RA) | Brookfield Real Assets Income Fund Inc. | RA |
-| 38 | 69 | $14.81 | [Chart](https://www.tradingview.com/chart/?symbol=RYLD) | Global X Russell 2000 Covered Call ETF | RYLD |
-| 39 | 69 | $10.25 | [Chart](https://www.tradingview.com/chart/?symbol=NMCO) | Nuveen Municipal Credit Opportunities Fund | NMCO |
-| 39 | 66 | $222.28 | [Chart](https://www.tradingview.com/chart/?symbol=ABG) | Asbury Automotive Group, Inc. | ABG |
+| 28 | 72 | $85.99 | [Chart](https://www.tradingview.com/chart/?symbol=BIDU) | Baidu, Inc. | BIDU |
+| 29 | 72 | $37.47 | [Chart](https://www.tradingview.com/chart/?symbol=FRME) | First Merchants Corp | FRME |
+| 35 | 70 | $223.02 | [Chart](https://www.tradingview.com/chart/?symbol=ABG) | Asbury Automotive Group, Inc. | ABG |
+| 39 | 70 | $45.01 | [Chart](https://www.tradingview.com/chart/?symbol=SON) | Sonoco Products Company | SON |
+| 35 | 69 | $13.10 | [Chart](https://www.tradingview.com/chart/?symbol=RA) | Brookfield Real Assets Income Fund Inc. | RA |
+| 36 | 69 | $24.14 | [Chart](https://www.tradingview.com/chart/?symbol=FLBL) | Franklin Senior Loan ETF | FLBL |
+| 39 | 68 | $14.82 | [Chart](https://www.tradingview.com/chart/?symbol=RYLD) | Global X Russell 2000 Covered Call ETF | RYLD |
 
 ## **Methodology**
 
